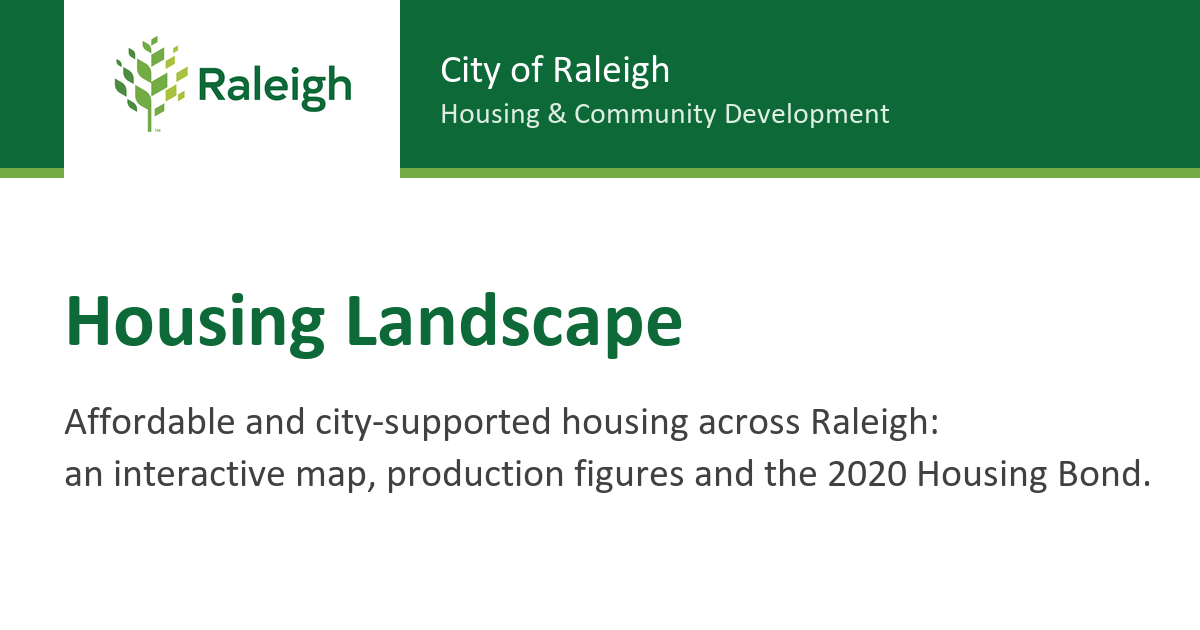
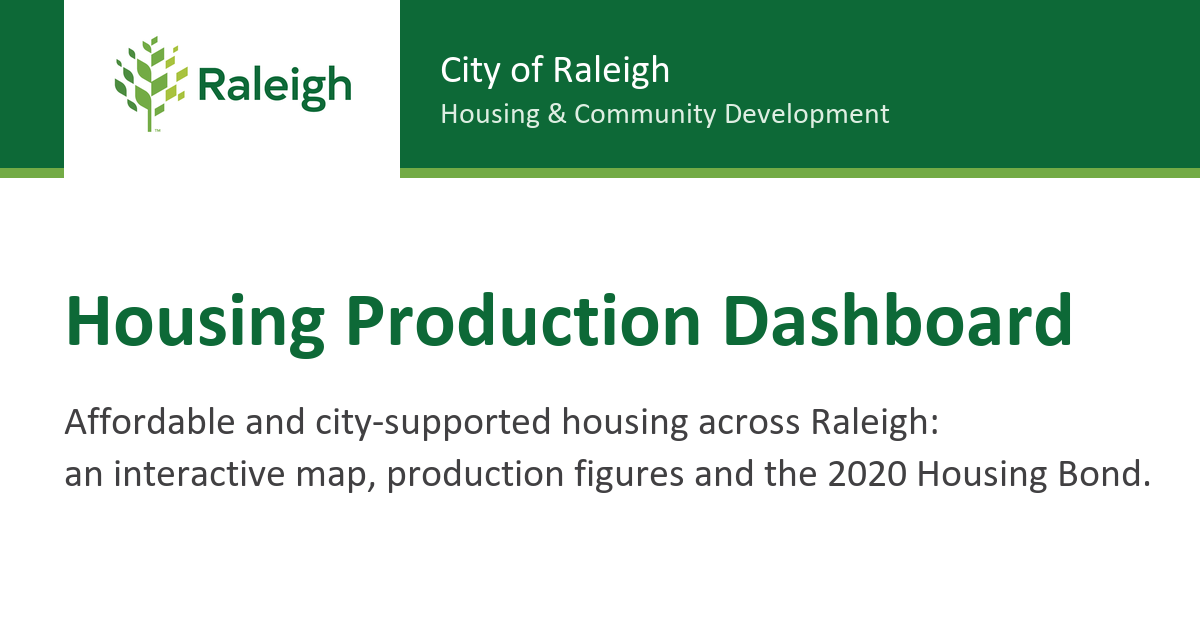
Match the link preview to the dashboard's new name
The card and the title apps show beside it now read "Housing Production
Dashboard", following the masthead change. The title is set per build, so the
other two keep the name they have.

Changed region(s): [[0.2775, 0.4524, 0.8942, 0.573], [0.2775, 0.4524, 0.3083, 0.4825]]

diff --git a/index.html b/index.html
@@ -13,7 +13,7 @@
     <meta name="description" content="Affordable and city-supported housing across Raleigh: an interactive map, production figures and the 2020 Housing Bond." />
     <meta property="og:type" content="website" />
     <meta property="og:site_name" content="City of Raleigh" />
-    <meta property="og:title" content="Raleigh Housing Landscape" />
+    <meta property="og:title" content="City of Raleigh Housing Production Dashboard" />
     <meta property="og:description" content="Affordable and city-supported housing across Raleigh: an interactive map, production figures and the 2020 Housing Bond." />
     <meta property="og:url" content="https://coraleigh.github.io/HN-Housing-Landscape-Public/" />
     <meta property="og:image" content="https://coraleigh.github.io/HN-Housing-Landscape-Public/share-card.png" />
@@ -22,7 +22,7 @@
     <meta property="og:image:height" content="630" />
     <meta property="og:image:alt" content="City of Raleigh Housing Landscape: affordable and city-supported housing." />
     <meta name="twitter:card" content="summary_large_image" />
-    <meta name="twitter:title" content="Raleigh Housing Landscape" />
+    <meta name="twitter:title" content="City of Raleigh Housing Production Dashboard" />
     <meta name="twitter:description" content="Affordable and city-supported housing across Raleigh: an interactive map, production figures and the 2020 Housing Bond." />
     <meta name="twitter:image" content="https://coraleigh.github.io/HN-Housing-Landscape-Public/share-card.png" />
 
